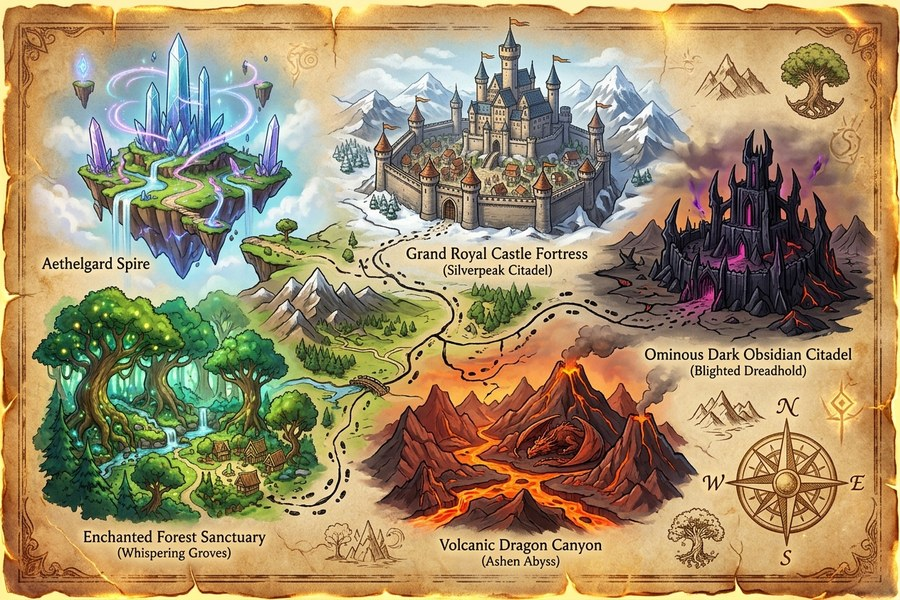
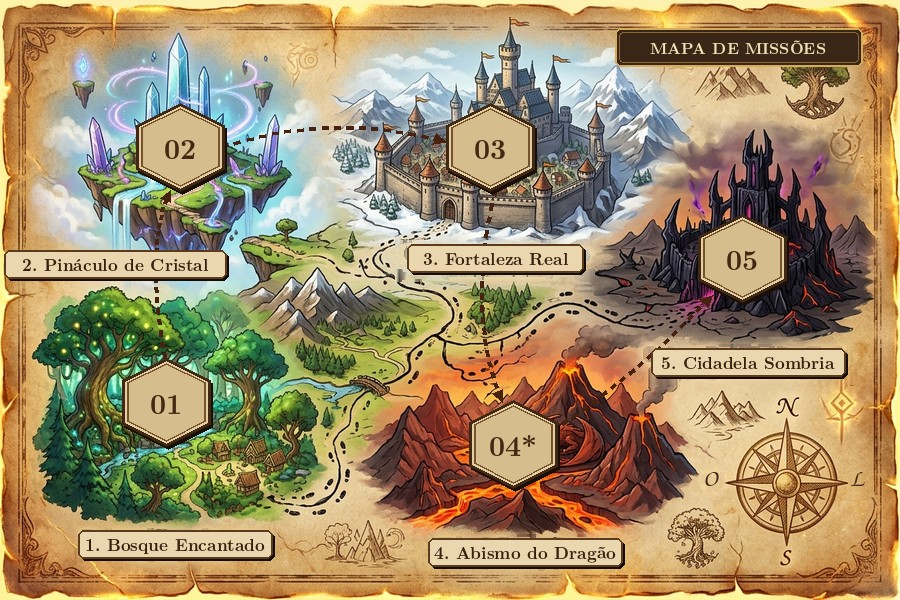
feat: standardize Fantasy character card borders, add faction emblems on cards, and localize Mission Map to Portuguese with 01-05 route markers

diff --git a/js/board.js b/js/board.js
@@ -76,25 +76,24 @@ class BoardUIController {
 							let badgeText = `M${r.round}: ${r.teamSize} Agentes`;
 							if (r.status === "resistance") {
 								tokenHTML = `<img src="${themeAssets.tokenAlly}" alt="Vitória da Resistência" class="hex-token-img token-drop-anim">`;
-								badgeText = `M${r.round}: ✓ Resistência`;
+								badgeText = `✓ Resistência`;
 							} else if (r.status === "spy") {
 								tokenHTML = `<img src="${themeAssets.tokenAxis}" alt="Vitória dos Espiões" class="hex-token-img token-drop-anim">`;
-								badgeText = r.failsCount ? `M${r.round}: ✖ ${r.failsCount} Falha(s)` : `M${r.round}: ✖ Sabotada`;
+								badgeText = r.failsCount ? `✖ ${r.failsCount} Falha(s)` : `✖ Sabotada`;
 							} else if (r.status === "current") {
 								tokenHTML = `
 									<div class="hex-current-target">
-										<span class="hex-round-num">0${r.round}${r.requiresTwoFails ? "*" : ""}</span>
-										<span class="hex-team-count">${r.teamSize}p</span>
+										<span class="hex-team-count">${r.teamSize}${r.requiresTwoFails ? "*" : ""}</span>
 									</div>
 								`;
-								badgeText = `▶ Missão ${r.round} (${r.teamSize} Agentes)`;
+								badgeText = `▶ Atual (${r.teamSize} Agentes)`;
 							} else {
 								tokenHTML = `
 									<div class="hex-pending-target">
-										<span class="hex-round-num-subtle">0${r.round}${r.requiresTwoFails ? "*" : ""}</span>
-										<span class="hex-team-count-subtle">${r.teamSize}p</span>
+										<span class="hex-team-count-subtle">${r.teamSize}${r.requiresTwoFails ? "*" : ""}</span>
 									</div>
 								`;
+								badgeText = `${r.teamSize} Agentes`;
 							}
 
 							return `

diff --git a/styles.css b/styles.css
@@ -1123,11 +1123,11 @@ h1 {
 .hex-current-target {
 	width: 100%;
 	height: 100%;
-	clip-path: polygon(25% 0%, 75% 0%, 100% 50%, 75% 100%, 25% 100%, 0% 50%);
+	clip-path: polygon(50% 0%, 100% 25%, 100% 75%, 50% 100%, 0% 75%, 0% 25%);
 	background: radial-gradient(
 		circle,
-		rgba(20, 26, 36, 0.85) 0%,
-		rgba(201, 166, 84, 0.78) 100%
+		rgba(201, 166, 84, 0.15) 0%,
+		rgba(201, 166, 84, 0.5) 100%
 	);
 	border: 2px solid var(--gold-light);
 	display: flex;
@@ -1138,24 +1138,7 @@ h1 {
 }
 
 .mission-map-wrapper.theme-classic .hex-current-target {
-	background: radial-gradient(
-		circle,
-		rgba(201, 166, 84, 0.15) 0%,
-		rgba(201, 166, 84, 0.45) 100%
-	);
-}
-
-.hex-round-num {
-	font-family: var(--font-display);
-	font-size: 1.1rem;
-	font-weight: 800;
-	color: #fff;
-	text-shadow: 0 2px 6px rgba(0, 0, 0, 0.95);
-}
-
-.mission-map-wrapper.theme-classic .hex-round-num,
-.mission-map-wrapper.theme-classic .hex-round-num-subtle {
-	display: none;
+	clip-path: polygon(25% 0%, 75% 0%, 100% 50%, 75% 100%, 25% 100%, 0% 50%);
 }
 
 .hex-team-count {
@@ -1176,24 +1159,6 @@ h1 {
 	width: 100%;
 	height: 100%;
 	position: relative;
-	display: flex;
-	align-items: center;
-	justify-content: center;
-}
-
-.mission-map-wrapper.theme-fantasy .hex-pending-target {
-	clip-path: polygon(25% 0%, 75% 0%, 100% 50%, 75% 100%, 25% 100%, 0% 50%);
-	background: rgba(16, 20, 26, 0.78);
-	border: 2px solid rgba(201, 166, 84, 0.65);
-	box-shadow: 0 4px 12px rgba(0, 0, 0, 0.85);
-}
-
-.hex-round-num-subtle {
-	font-family: var(--font-display);
-	font-size: 0.98rem;
-	font-weight: 800;
-	color: var(--gold-light);
-	text-shadow: 0 2px 4px rgba(0, 0, 0, 0.95);
 }
 
 .hex-team-count-subtle {

diff --git a/index.html b/index.html
@@ -35,7 +35,7 @@
 					</div>
 				</a>
 
-				<a href="multiplayer.html?v=11" class="mode-nav-card">
+				<a href="multiplayer.html?v=12" class="mode-nav-card">
 					<span class="mode-card-icon">🌐</span>
 					<div class="mode-card-body">
 						<strong>Multiplayer (Vários Aparelhos)</strong>
@@ -43,7 +43,7 @@
 					</div>
 				</a>
 
-				<a href="master.html?v=11" class="mode-nav-card master-card">
+				<a href="master.html?v=12" class="mode-nav-card master-card">
 					<span class="mode-card-icon">🎙</span>
 					<div class="mode-card-body">
 						<strong>Modo Mestre / Narrador</strong>
@@ -214,8 +214,8 @@
 		</main>
 	</div>
 
-	<script src="js/game.js?v=11"></script>
-	<script src="js/setup.js?v=11"></script>
+	<script src="js/game.js?v=12"></script>
+	<script src="js/setup.js?v=12"></script>
 	<script>
 		// Auto-purge old caches from v1-v8 and force service worker refresh
 		if ('caches' in window) {
@@ -269,7 +269,7 @@
 		});
 
 		if ('serviceWorker' in navigator) {
-			navigator.serviceWorker.register('./service-worker.js?v=11').then(reg => {
+			navigator.serviceWorker.register('./service-worker.js?v=12').then(reg => {
 				reg.update();
 			}).catch(err => console.error(err));
 		}

diff --git a/js/game.js b/js/game.js
@@ -51,11 +51,11 @@ const GameManager = {
 			tokenAlly: "images_fantasy/token-ally.png",
 			tokenAxis: "images_fantasy/token-axis.png",
 			mapNodes: [
-				{ round: 1, name: "01 • Santuário da Floresta", left: "18.5%", top: "67.0%" },
-				{ round: 2, name: "02 • Pináculo de Cristal", left: "20.0%", top: "24.5%" },
-				{ round: 3, name: "03 • Fortaleza Real", left: "54.5%", top: "24.5%" },
-				{ round: 4, name: "04* • Abismo do Dragão", left: "57.0%", top: "74.0%" },
-				{ round: 5, name: "05 • Cidadela de Obsidiana", left: "82.5%", top: "43.0%" },
+				{ round: 1, name: "1. Bosque Encantado", left: "18.44%", top: "67.00%" },
+				{ round: 2, name: "2. Pináculo de Cristal", left: "20.00%", top: "24.50%" },
+				{ round: 3, name: "3. Fortaleza Real", left: "54.44%", top: "24.50%" },
+				{ round: 4, name: "4*. Abismo do Dragão", left: "57.00%", top: "74.00%" },
+				{ round: 5, name: "5. Cidadela Sombria", left: "82.44%", top: "43.00%" },
 			],
 		};
 	},

diff --git a/multiplayer.html b/multiplayer.html
@@ -8,7 +8,7 @@
 	<meta name="theme-color" content="#1e3a4c">
 	<title>Multiplayer Online - The Resistance</title>
 	<link rel="manifest" href="manifest.json">
-	<link rel="stylesheet" href="styles.css?v=11">
+	<link rel="stylesheet" href="styles.css?v=12">
 </head>
 
 <body>
@@ -212,9 +212,9 @@
 	<!-- Include QRCode library -->
 	<script src="https://cdn.jsdelivr.net/npm/qrcodejs@1.0.0/qrcode.min.js"></script>
 	<!-- Include game & board logic -->
-	<script src="js/game.js?v=11"></script>
-	<script src="js/board.js?v=11"></script>
-	<script src="js/multiplayer.js?v=11"></script>
+	<script src="js/game.js?v=12"></script>
+	<script src="js/board.js?v=12"></script>
+	<script src="js/multiplayer.js?v=12"></script>
 	<script>
 		if ("caches" in window) {
 			caches.keys().then((keys) => {

diff --git a/reveal.html b/reveal.html
@@ -17,7 +17,7 @@
 	<div class="container">
 		<header class="compact-header">
 			<div class="header-top-bar">
-				<a href="index.html?v=11" class="btn-nav-back">← Menu Principal</a>
+				<a href="index.html?v=12" class="btn-nav-back">← Menu Principal</a>
 				<span class="mode-pill" id="headerModeLabel">📱 Modo 1 Aparelho</span>
 			</div>
 			<h1>THE RESISTANCE</h1>
@@ -92,9 +92,9 @@
 		</div>
 	</div>
 
-	<script src="js/game.js?v=11"></script>
-	<script src="js/board.js?v=11"></script>
-	<script src="js/reveal.js?v=11"></script>
+	<script src="js/game.js?v=12"></script>
+	<script src="js/board.js?v=12"></script>
+	<script src="js/reveal.js?v=12"></script>
 	<script>
 		if ("caches" in window) {
 			caches.keys().then((keys) => {

diff --git a/master.html b/master.html
@@ -10,7 +10,7 @@
 	<meta name="apple-mobile-web-app-status-bar-style" content="black-translucent">
 	<title>The Resistance - Modo Mestre / Narrador</title>
 	<link rel="manifest" href="manifest.json">
-	<link rel="stylesheet" href="styles.css?v=11">
+	<link rel="stylesheet" href="styles.css?v=12">
 </head>
 
 <body>
@@ -66,8 +66,8 @@
 		</main>
 	</div>
 
-	<script src="js/game.js?v=11"></script>
-	<script src="js/board.js?v=11"></script>
+	<script src="js/game.js?v=12"></script>
+	<script src="js/board.js?v=12"></script>
 	<script>
 		// Auto-purge stale Service Worker caches (v1-v7) so new styles always apply
 		if ("caches" in window) {

diff --git a/js/setup.js b/js/setup.js
@@ -383,7 +383,7 @@ document.addEventListener("DOMContentLoaded", () => {
 
 		// Navigate to reveal screen with cache-busting query string so old Service Worker never intercepts with stale reveal.html
 		const navLink = document.createElement("a");
-		navLink.href = "reveal.html?v=11";
+		navLink.href = "reveal.html?v=12";
 		navLink.style.display = "none";
 		document.body.appendChild(navLink);
 		navLink.click();

diff --git a/service-worker.js b/service-worker.js
@@ -1,4 +1,4 @@
-const CACHE_NAME = "the-resistance-v11"; // Includes original Fantasy RPG/Disney theme artwork & theme switcher
+const CACHE_NAME = "the-resistance-v12"; // Standardized Fantasy card borders, faction emblems & Portuguese Mission Map
 
 // Detecta automaticamente o caminho base (funciona com GitHub Pages e localhost)
 const getBasePath = () => {
